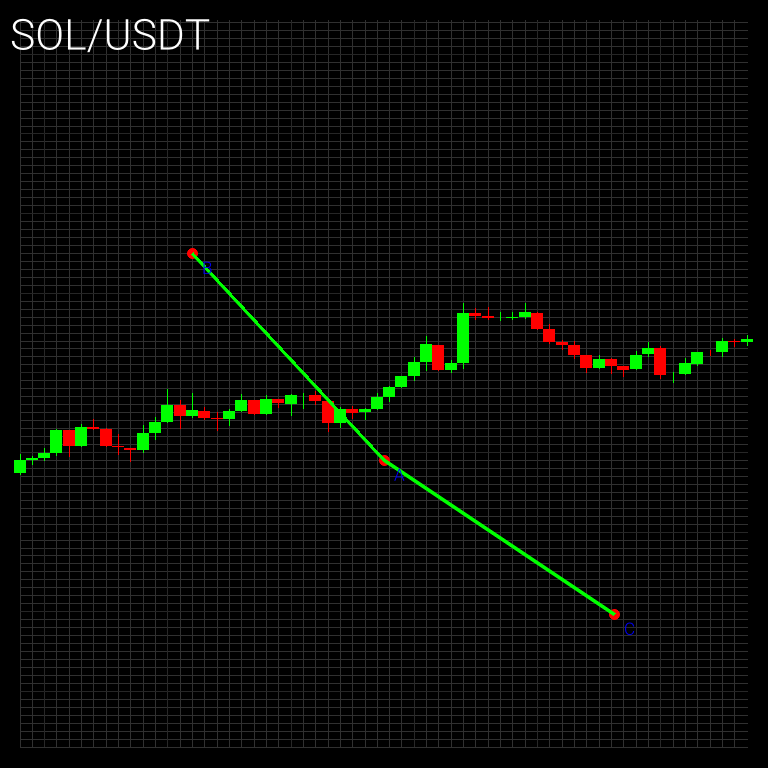
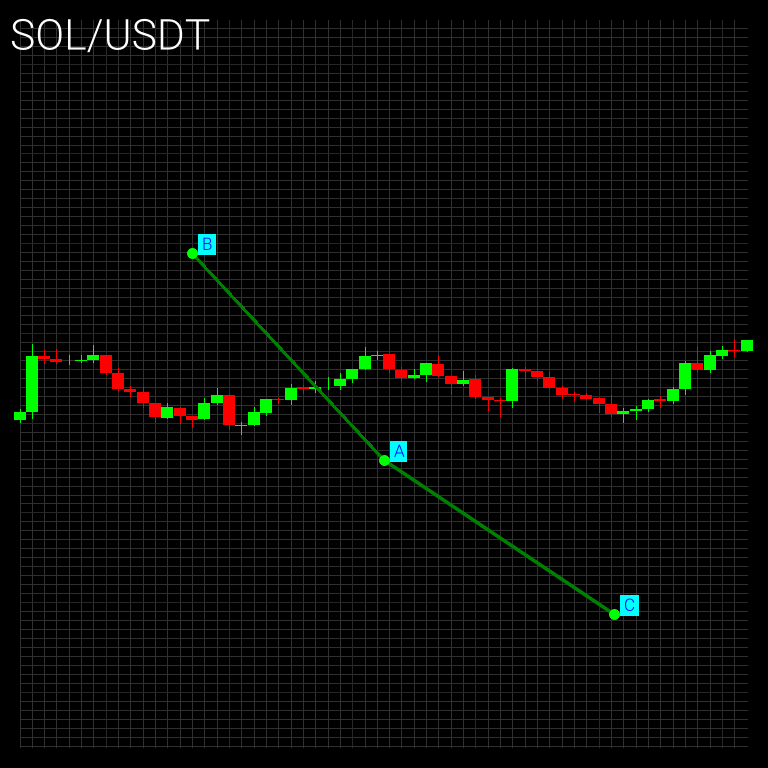
fix: bg label

Changed region(s): [[0.0, 0.0312, 1.0, 0.9688]]

diff --git a/feeder/src/charts/candle.rs b/feeder/src/charts/candle.rs
@@ -1,11 +1,12 @@
 use crate::charts::png::encode_png;
-use ab_glyph::{FontRef, PxScale};
+use ab_glyph::ScaleFont;
+use ab_glyph::{Font, FontRef, PxScale};
 use chrono::{DateTime, Duration};
 use chrono_tz::Tz;
 use common::Kline;
-use image::ImageBuffer;
-use image::Rgb;
-use imageproc::drawing::draw_text_mut;
+use image::{ImageBuffer, Rgb};
+use imageproc::drawing::{draw_filled_rect_mut, draw_text_mut};
+use imageproc::rect::Rect;
 use plotters::coord::types::RangedCoordf32;
 use plotters::prelude::*;
 use std::error::Error;
@@ -27,6 +28,7 @@ pub struct LineStyle {
 pub struct LabelStyle {
     pub scale: PxScale,
     pub color: Rgb<u8>,
+    pub background_color: Rgb<u8>,
     pub offset_x: i32,
     pub offset_y: i32,
 }
@@ -67,7 +69,7 @@ impl Chart {
                 title: String::new(),
             },
             font_data: None,
-            candle_width: 5,
+            candle_width: 10,
             candle_height: 5,
             points: Vec::new(),
             point_style: None,
@@ -132,6 +134,7 @@ impl Chart {
         scale_x: f32,
         scale_y: f32,
         color: Rgb<u8>,
+        background_color: Rgb<u8>,
         offset_x: i32,
         offset_y: i32,
     ) -> Self {
@@ -141,6 +144,7 @@ impl Chart {
                 y: scale_y,
             },
             color,
+            background_color,
             offset_x,
             offset_y,
         });
@@ -201,8 +205,6 @@ impl Chart {
 
             chart
                 .configure_mesh()
-                .x_labels(10) // Show up to 10 labels
-                .x_label_formatter(&|x| x.format("%Y-%m-%d %H:%M").to_string()) // Format x-axis labels
                 .light_line_style(RGBColor(48, 48, 48))
                 .draw()?;
 
@@ -244,6 +246,20 @@ impl Chart {
                 (0..width as i32, 0..height as i32),
             ));
 
+            // Draw lines
+            if !self.lines.is_empty() {
+                let style = self.line_style.clone().unwrap_or(LineStyle {
+                    stroke_width: 2,
+                    color: YELLOW,
+                });
+                for &[p1, p2] in self.lines.iter() {
+                    root.draw(&PathElement::new(
+                        vec![p1, p2],
+                        ShapeStyle::from(&style.color).stroke_width(style.stroke_width as u32),
+                    ))?;
+                }
+            }
+
             // Draw points
             if !self.points.is_empty() {
                 let style = self.point_style.clone().unwrap_or(PointStyle {
@@ -258,36 +274,50 @@ impl Chart {
                     ))?;
                 }
             }
-
-            // Draw lines
-            if !self.lines.is_empty() {
-                let style = self.line_style.clone().unwrap_or(LineStyle {
-                    stroke_width: 2,
-                    color: YELLOW,
-                });
-                for &[p1, p2] in self.lines.iter() {
-                    root.draw(&PathElement::new(
-                        vec![p1, p2],
-                        ShapeStyle::from(&style.color).stroke_width(style.stroke_width as u32),
-                    ))?;
-                }
-            }
         }
 
-        // Draw labels
+        // Draw labels with background color using draw_text_mut
         if !self.labels.is_empty() {
             let style = self.label_style.clone().unwrap_or(LabelStyle {
                 scale: PxScale { x: 15.0, y: 15.0 },
                 color: white,
+                background_color: Rgb([0, 0, 0]), // Default black background
                 offset_x: 5,
                 offset_y: 0,
             });
+            let font_metrics = font.as_scaled(style.scale);
             for (x, y, text) in self.labels.iter() {
+                // Calculate exact text bounds
+                let mut total_width = 0.0f32;
+                for c in text.chars() {
+                    let glyph_id = font_metrics.glyph_id(c);
+                    let glyph = ab_glyph::Glyph {
+                        id: glyph_id,
+                        scale: style.scale,
+                        position: ab_glyph::Point { x: 0.0, y: 0.0 },
+                    };
+                    let bounds = font_metrics.glyph_bounds(&glyph);
+                    total_width += bounds.width()
+                }
+                let text_width = total_width.ceil() as i32;
+                let text_height = (font_metrics.ascent() - font_metrics.descent()).ceil() as i32;
+                let x_pos = (*x * width as f32) as i32 + style.offset_x;
+                let y_pos = (*y * height as f32) as i32 + style.offset_y - text_height; // Adjust for baseline
+
+                // Draw background rectangle
+                draw_filled_rect_mut(
+                    &mut imgbuf,
+                    Rect::at(x_pos - 4, y_pos - 4)
+                        .of_size((text_width + 6) as u32, (text_height + 1) as u32),
+                    style.background_color,
+                );
+
+                // Draw text on top of background
                 draw_text_mut(
                     &mut imgbuf,
                     style.color,
-                    (*x * width as f32) as i32 + style.offset_x,
-                    (*y * height as f32) as i32 + style.offset_y,
+                    x_pos,
+                    y_pos + (font_metrics.descent() as i32), // Align text baseline
                     style.scale,
                     &font,
                     text,
@@ -295,7 +325,7 @@ impl Chart {
             }
         }
 
-        // Draw title
+        // Draw title using draw_text_mut
         draw_text_mut(
             &mut imgbuf,
             white,
@@ -326,16 +356,16 @@ async fn entry_point() {
         .with_title("SOL/USDT")
         .with_font_data(font_data)
         .with_candle_dimensions(10, 5)
-        .with_points(vec![(0.5, 0.6), (0.25, 0.33), (0.8, 0.8)])
-        .with_point_style(5, RGBColor(255, 0, 0)) // Red points with radius 5
         .with_lines(vec![[(0.5, 0.6), (0.25, 0.33)], [(0.8, 0.8), (0.5, 0.6)]])
-        .with_line_style(3, RGBColor(0, 255, 0)) // Green lines with width 3
+        .with_line_style(3, RGBColor(0, 128, 0))
+        .with_points(vec![(0.5, 0.6), (0.25, 0.33), (0.8, 0.8)])
+        .with_point_style(5, RGBColor(0, 255, 0))
         .with_labels(vec![
             (0.5, 0.6, "A".to_string()),
             (0.25, 0.33, "B".to_string()),
             (0.8, 0.8, "C".to_string()),
         ])
-        .with_label_style(20.0, 20.0, Rgb([0, 0, 255]), 10, 5) // Blue labels, larger scale, offset
+        .with_label_style(20.0, 20.0, Rgb([0, 0, 255]), Rgb([0, 255, 255]), 10, 5)
         .build()
         .unwrap();
 
